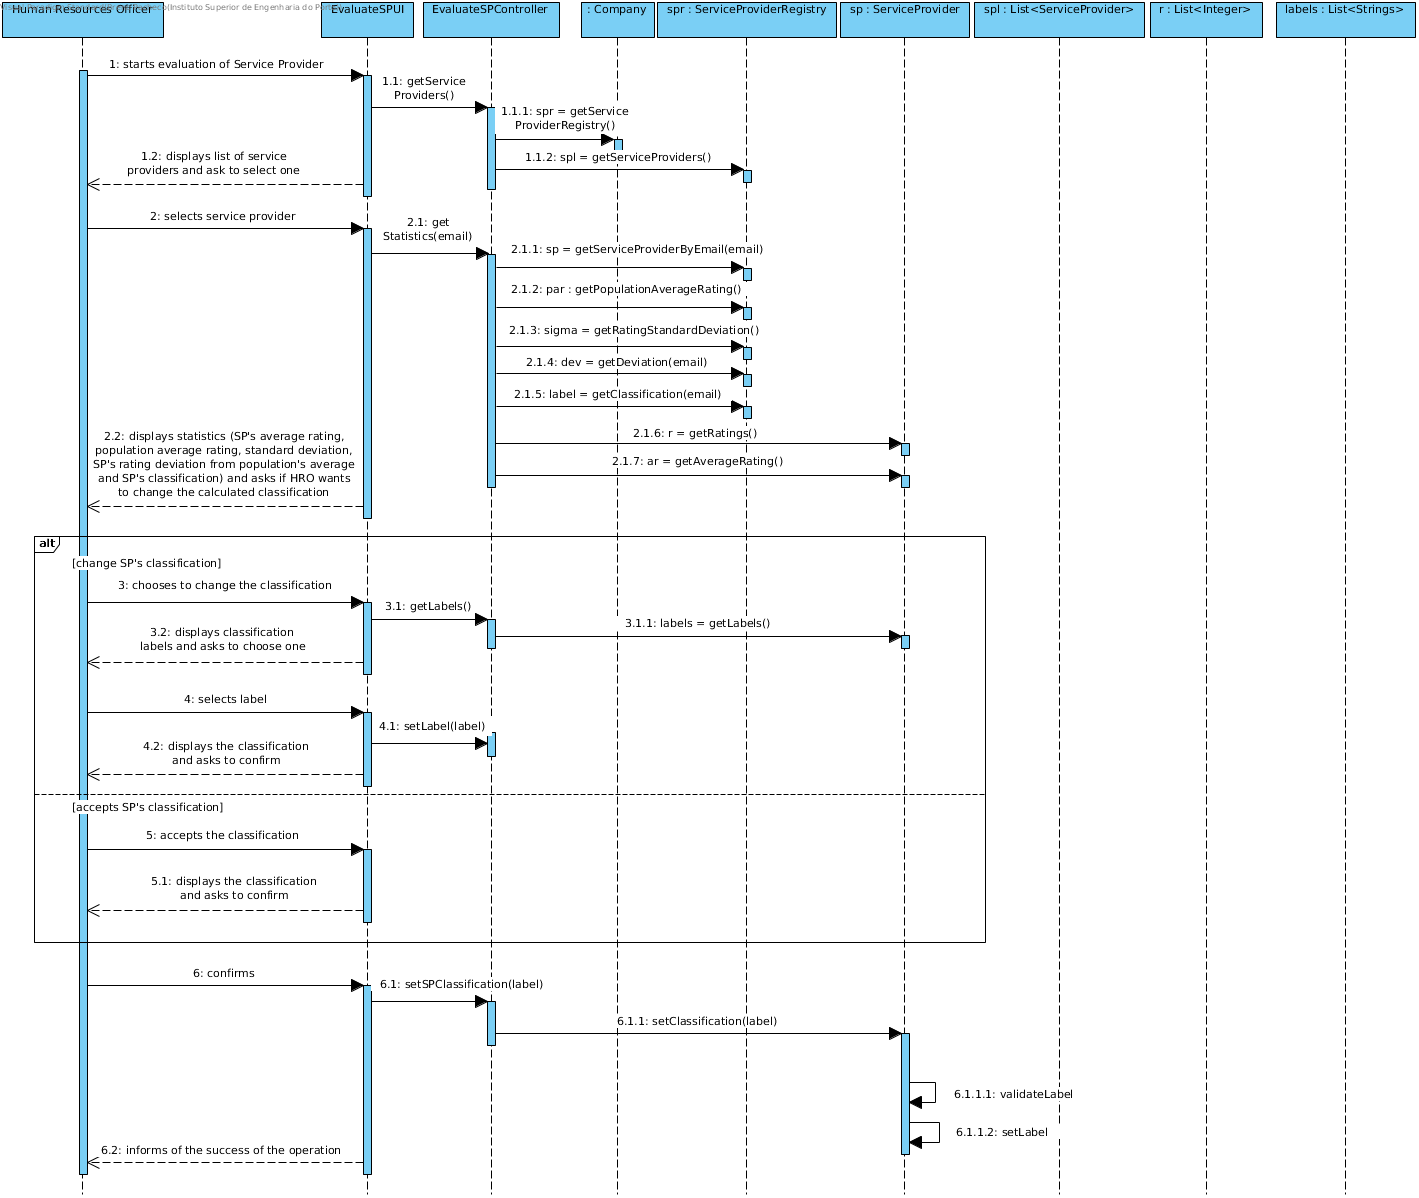
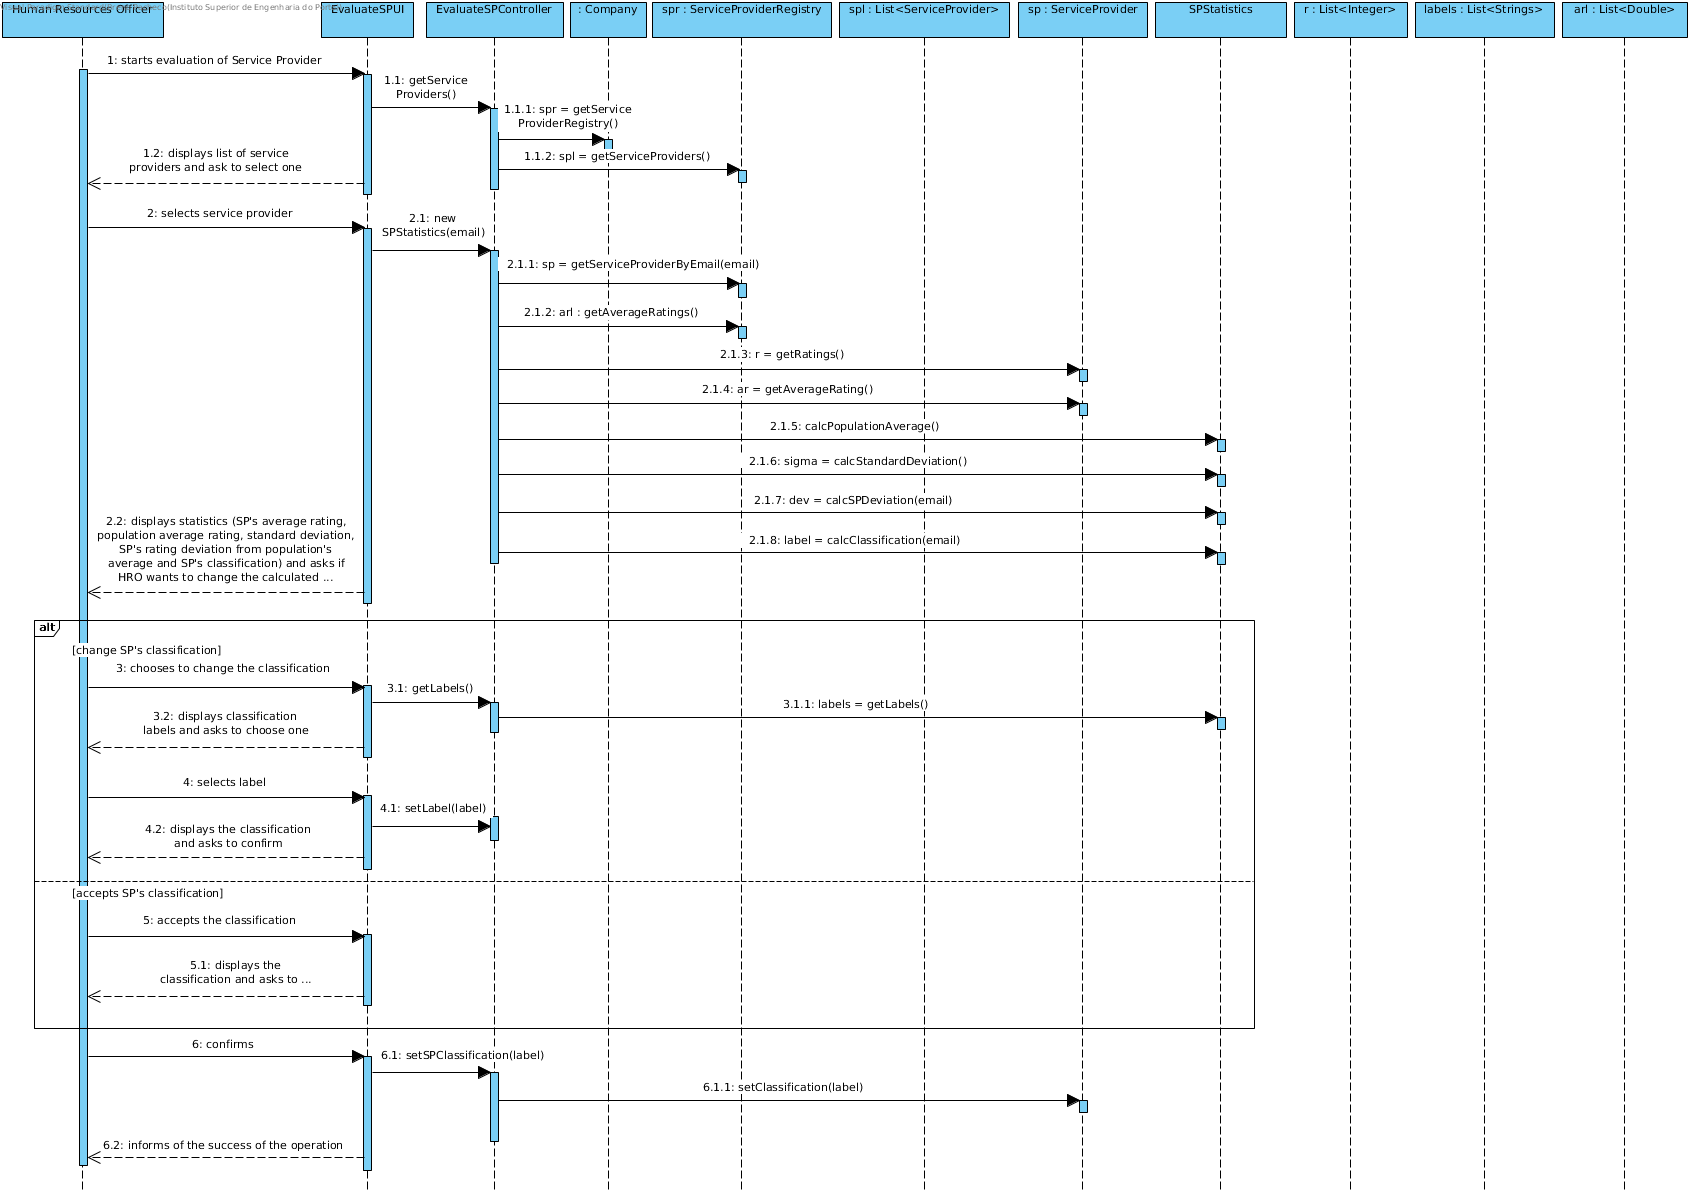
Changes in usecases [UC-10][UC-15]

diff --git a/Design/UC10_AssignServiceRequests.md b/Design/UC10_AssignServiceRequests.md
@@ -1,20 +1,20 @@
-# Realization of UC10 - Affect Providers on Requests
+# Realization of UC10 - Assign Service Requests to Service Providers
 
 ## Rational
 
-| Home                                                                                                                     | Question: What Class ...                                        | Reply                     | Justification  |
-| : ------------------------------------------------- -------------------------------------------------- ----              | : ------------------------------------------------- ----------- | : ---                     | : -----        |
-| 1. Initiates the assignment of requests to Service Providers. The assignment algorithm and execution times are provided. | ... knows the Timer settings (i.e., algoritm and times)?        | Company                   | IE             |
-|                                                                                                                          | ... creates the Timer instance?                                 | Company                   | Creator        |
-|                                                                                                                          | ... creates the instance of AssignServicesTask?                 | Company                   | Creator        |
-|                                                                                                                          | ... saves the details and scheduling of execution?              | Timer                     | IE             |
-|                                                                                                                          | ... triggers the assignment process?                            | Timer                     | Action Trigger |
-|                                                                                                                          | ... performs the assignment process?                            | AssignmentTask            | IE             |
-|                                                                                                                          | ... creates ServiceAssignment instances?                        | AssignmentAlgoritm        | Creator        |
+| Home                                                                                                                     | Question: What Class ...                                        | Reply                      | Justification  |
+| : ------------------------------------------------- -------------------------------------------------- ----              | : ------------------------------------------------- ----------- | : ---     | : -----        |
+| 1. Initiates the assignment of requests to Service Providers. The assignment algorithm and execution times are provided. | ... knows the Timer settings (i.e., algoritm and times)?        | Company                         | IE             |
+|                                                                                                                          | ... creates the Timer instance?                                 | Company                           | Creator        |
+|                                                                                                                          | ... creates the instance of AssignServicesTask?                 | Company                     | Creator        |
+|                                                                                                                          | ... saves the details and scheduling of execution?              | Timer                             | IE             |
+|                                                                                                                          | ... triggers the assignment process?                            | Timer                        | Action Trigger |
+|                                                                                                                          | ... performs the assignment process?                            | AssignmentTask               | IE             |
+|                                                                                                                          | ... creates ServiceAssignment instances?                        | AssignmentAlgoritm      | Creator        |
 |                                                                                                                          | ... knows the AssigmentAlgoritm?                                | Company                   | IE             |
 |                                                                                                                          | ... holds the ServiceAssignment instances created?              | ServiceAssignmentRegister | IE
 |                                                                                                                          | ... knows the ServiceAssignmentRegister?                        | Company                   | IE             |
-| 2. Operation completed.                                                                                                   |                                                                 |                           |                |
+| 2. Operation completed.                                                                                                  |                                                                 |           |                |
 
 ## Sistematization ##
 

diff --git a/Design/UC15_EvaluateSP.md b/Design/UC15_EvaluateSP.md
@@ -9,7 +9,10 @@
 | 2. The system shows him the list of Service Providers registered and requires to select one.   | ... knows the Service Providers?               | ServiceProviderRegistry           | IE: ServiceProviderRegistry aggregates all ServiceProviders                                          |
 |                                                                                                | ... knows the ServiceProviderRegistry?         | Company                           | IE: Company has the Register for Service Providers                                                   |
 | 3. The HRO selects a Service Provider.                                                         |                                                |                                   |                                                                                                      |
-| 4. The system displays the SP's rating distribution, statistics and calculated classification. | ... performs the calculations?                 | ServiceProvidersRegistry          | IE: The Registry aggregates and performs operations on all ServiceProviders                          |
+| 4. The system displays the SP's rating distribution, statistics and calculated classification. | ... performs the calculations?                 | SPStatistics                      | PureFabrication: auxiliary class to which a class in the domain model is not justifiable.
+|                                                                                                | ... knows the Service Provider's ratings?      | Evaluation                        | IE: Evaluation holds ratings                                                                         |
+|                                                                                                | ... has Evaluations?                           | ServiceProvider                   | IE: ServiceProvider has ratings                                                                      |
+|                                                                                                | ... can access all SP's ratings?               | ServiceProviderRegistry           | IE: aggregates all SP's                                                                              |
 | 5a. The HRO accepts the classification. (step 8)                                               |                                                |                                   |                                                                                                      |
 | 5b. The HRO chooses to modify the classification. (step 6)                                     |                                                |                                   |                                                                                                      |
 | 6. The System provides the possible replacing labels and asks the HRO to choose one.           | ... stores the possible labels/classfications? | ServiceProvider                   | IE: ServiceProvider holds the data related to it's own classification                                |
